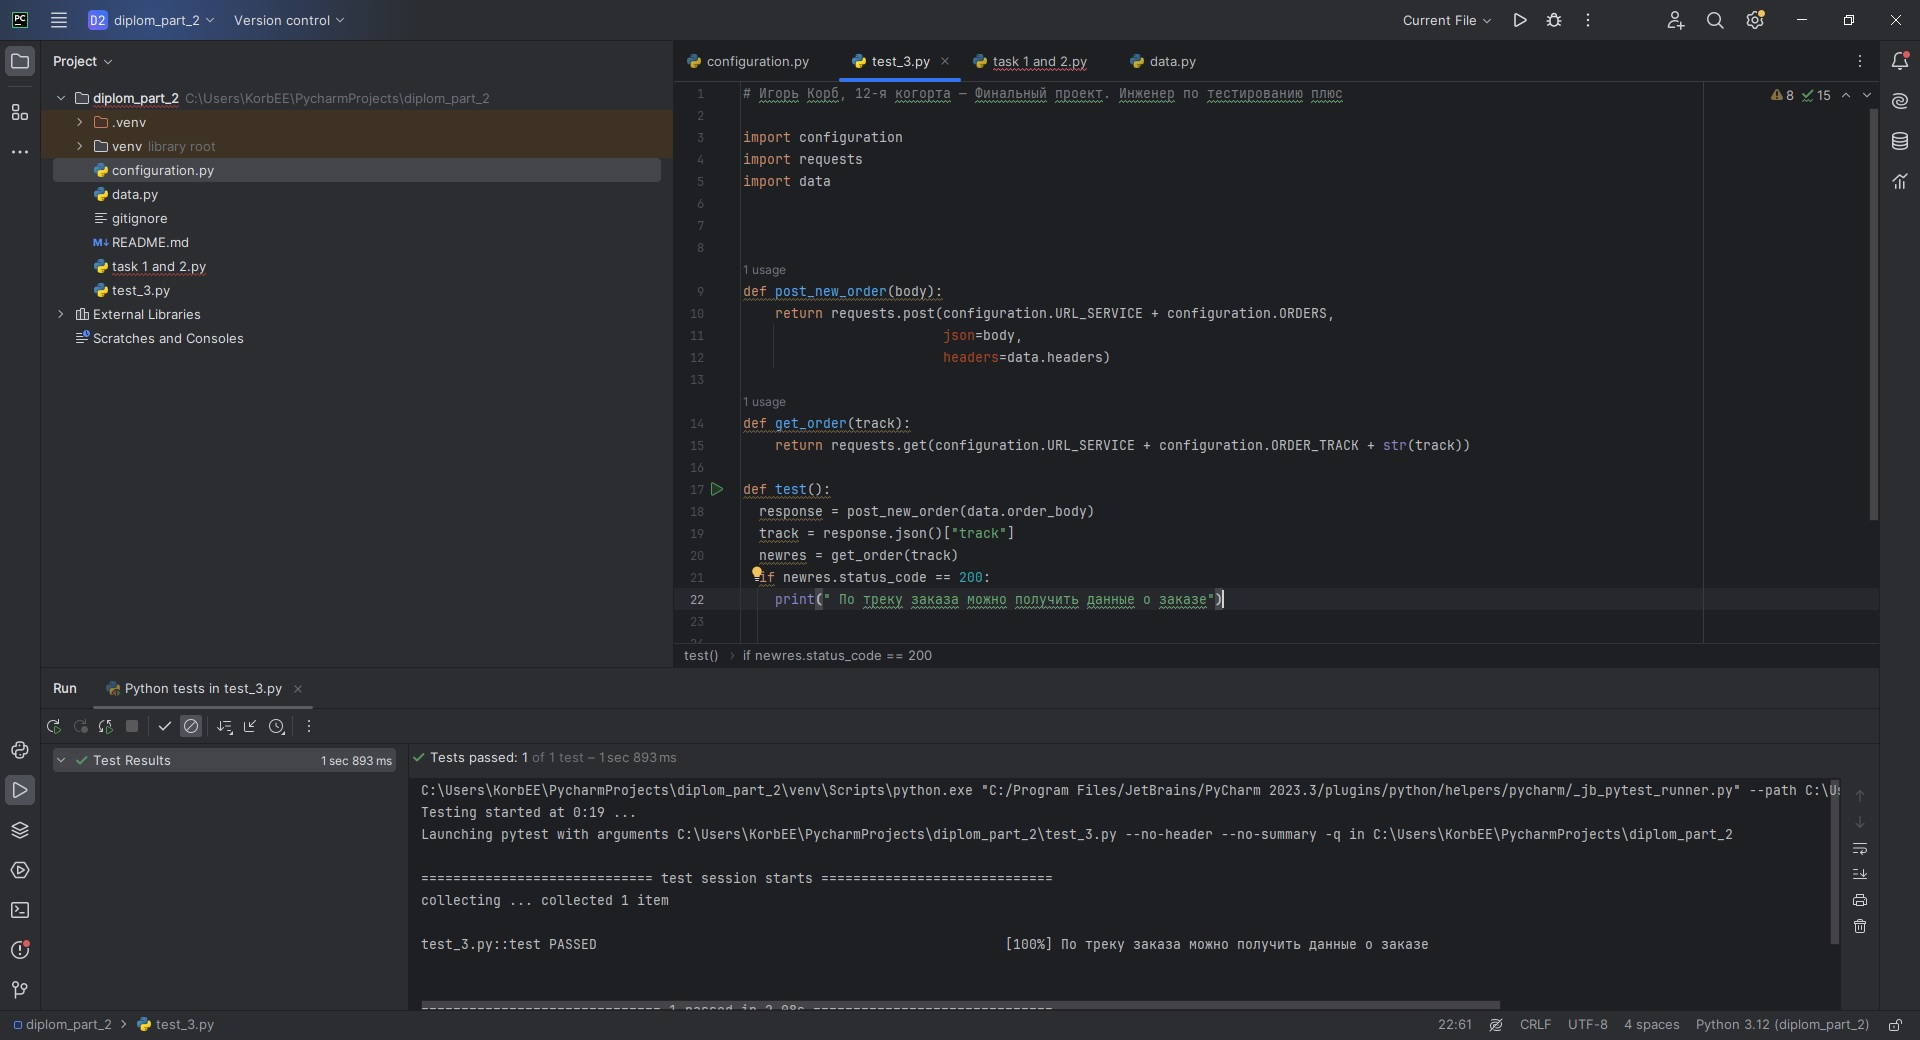
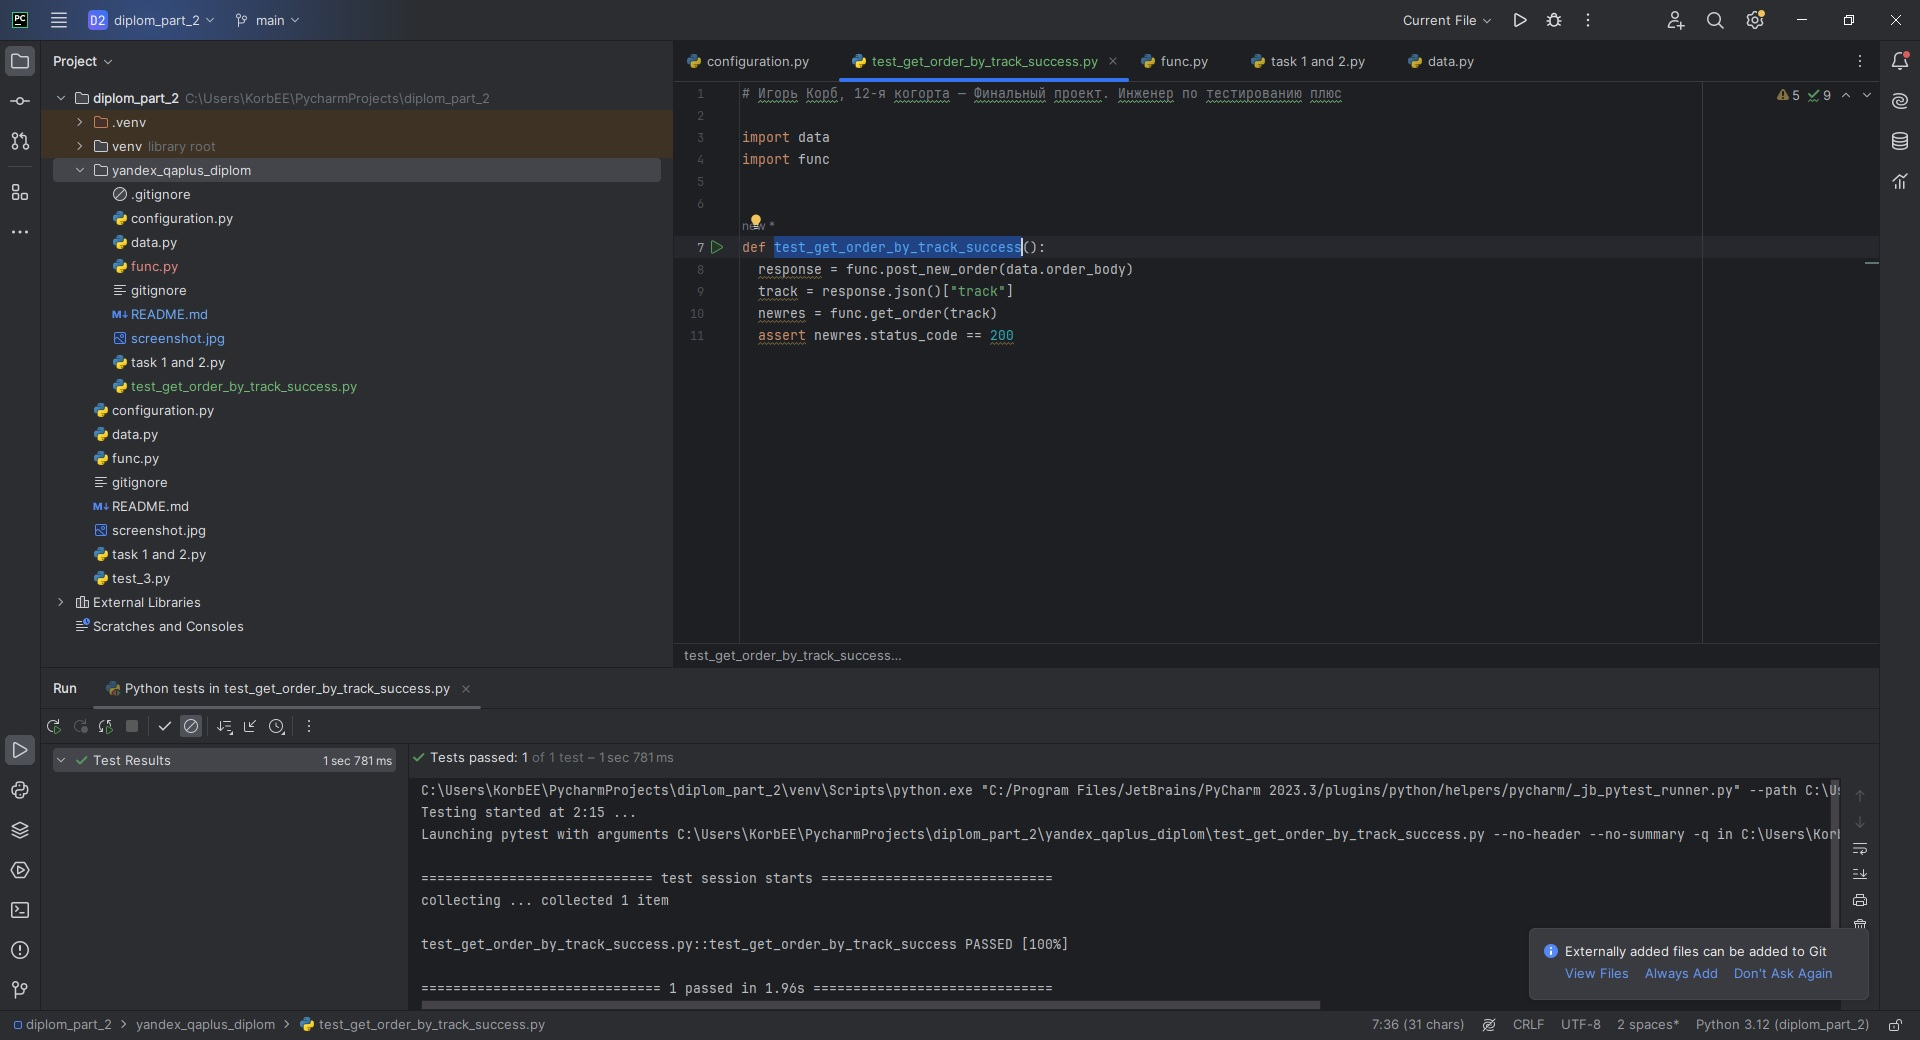
Новые исправления от 28.01.2024 2:26 (+5 по гринвичу)

diff --git a/test_get_order_by_track_success.py b/test_get_order_by_track_success.py
@@ -1,0 +1,11 @@
+# Игорь Корб, 12-я когорта — Финальный проект. Инженер по тестированию плюс
+
+import data
+import func
+
+
+def test_get_order_by_track_success():
+  response = func.post_new_order(data.order_body)
+  track = response.json()["track"]
+  newres = func.get_order(track)
+  assert newres.status_code == 200

diff --git a/func.py b/func.py
@@ -1,0 +1,11 @@
+import configuration
+import requests
+import data
+
+def post_new_order(body):
+    return requests.post(configuration.URL_SERVICE + configuration.ORDERS,
+                         json=body,
+                         headers=data.headers)
+
+def get_order(track):
+    return requests.get(configuration.URL_SERVICE + configuration.ORDER_TRACK + str(track))

diff --git a/README.md b/README.md
@@ -1,1 +1,4 @@
-# yandex_qaplus_diplom
+# Данным автотестом (test_get_order_by_track_success.py) проверяется, что по треку заказа можно получить данные о самом заказе в приложении Яндекс.Самокат версии 2.0.
+- Каждый раз нужно вводить URL стенда в configuration.py
+- Для запуска тестов должны быть установлены пакеты pytest и requests
+- Запуск всех тестов выполянется командой pytest
